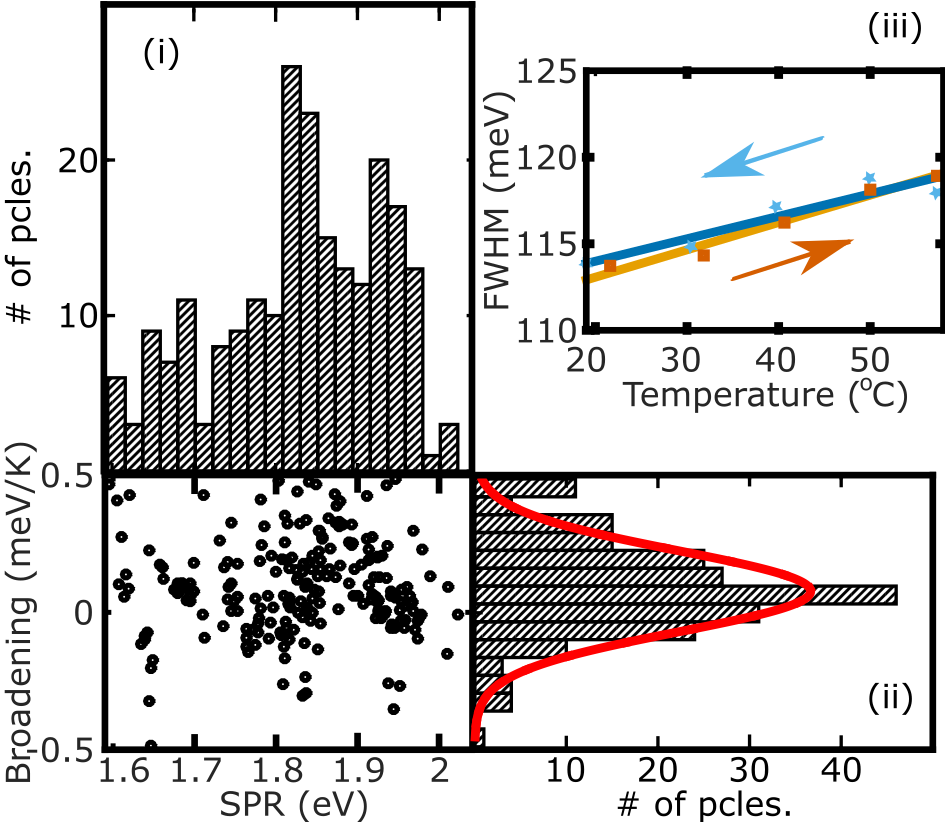
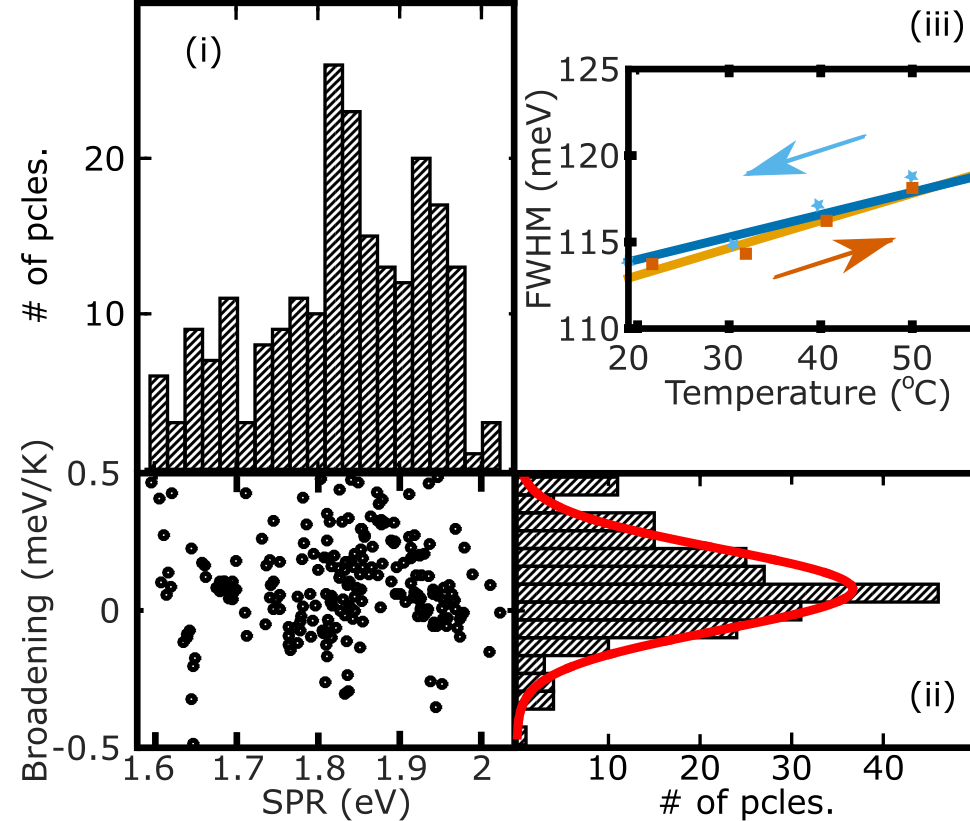
Updated Figure in chapter 05

Changed region(s): [[0.0, 0.0, 1.0, 1.0], [0.5831, 0.8831, 0.9513, 1.0], [0.7365, 0.1523, 0.8899, 0.2132]]

diff --git a/Chapters/05_WhiteLight/WhiteLight.tex b/Chapters/05_WhiteLight/WhiteLight.tex
@@ -339,7 +339,7 @@ rates and the plasmon resonance, we performed the same analysis on $220$
 different particles.
 
 \begin{figure}[tp] \centering
-\includegraphics[width=8cm]{Chapters/05_WhiteLight/Figures/04_Many_Pcles/04_Many_Particles.png}
+\includegraphics[width=8.23cm]{Chapters/05_WhiteLight/Figures/04_Many_Pcles/04_Many_Particles.png}
 \caption{Plasmon broadening rate as a function of initial resonance position.
 Main panel shows the results for $220$ different nanorods. Panel (i) is the histogram
 of the distribution of resonance energies found. Panel (ii) shows the
